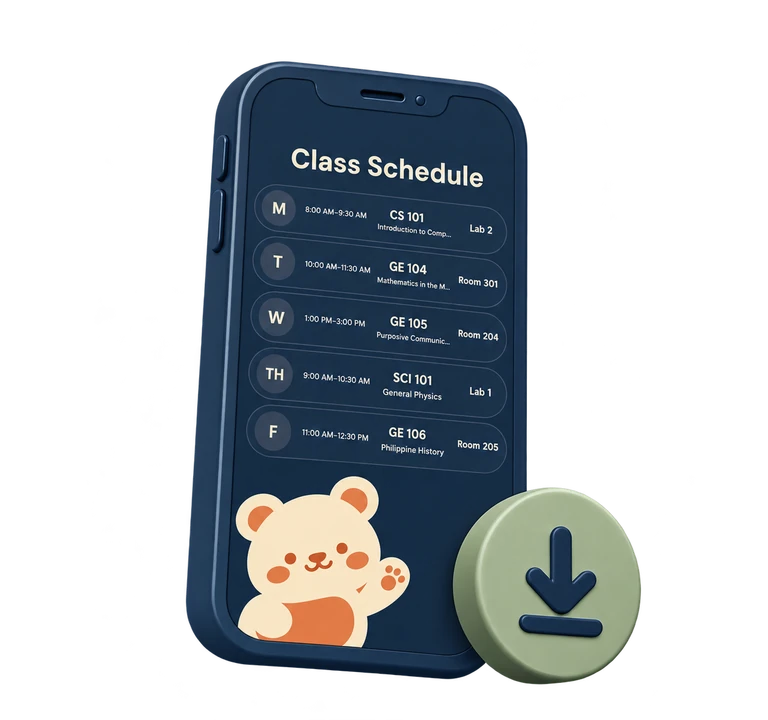
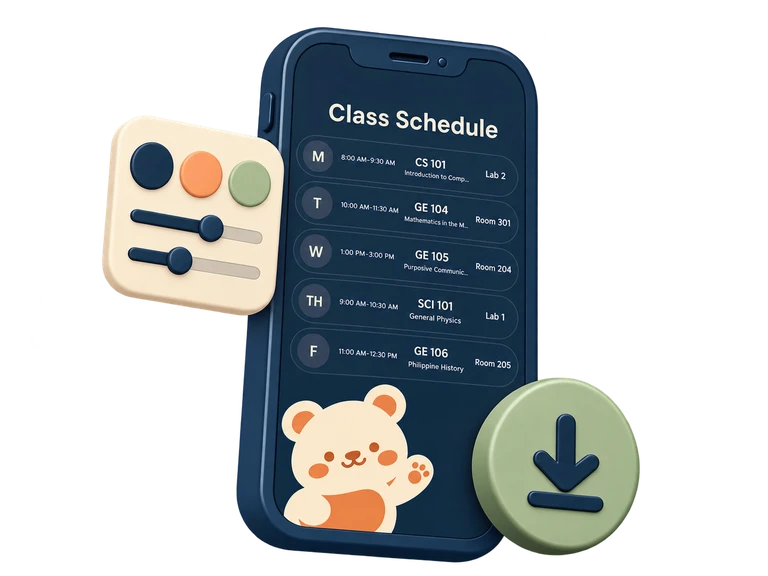
Update landing step 3 to customize and download

Changed region(s): [[0.125, 0.0312, 0.8438, 1.0]]

diff --git a/src/components/HowItWorks.jsx b/src/components/HowItWorks.jsx
@@ -12,10 +12,10 @@ const steps = [
     height: 512,
   },
   {
-    title: 'Download wallpaper',
-    description: 'Download your PNG and set it as your lock screen. Your week, always in view.',
+    title: 'Customize and download',
+    description: 'Adjust the colors and layout, then download your PNG and set it as your lock screen.',
     image: '/images/how-it-works/download-wallpaper.webp',
-    height: 720,
+    height: 576,
   },
 ];
 

diff --git a/documentation/LANDING_PAGE.md b/documentation/LANDING_PAGE.md
@@ -22,7 +22,7 @@ A full-width warm cream, three-column row directly below the hero shows **Total 
 
 ## How it works
 
-A white section immediately before **Find your style.** fades in from the cream statistics with a 24–40px masked blur, matching the hero-to-statistics treatment. It explains the three-step journey: **Choose a design**, **Add your classes**, and **Download wallpaper**. Three open illustrated columns become a centered vertical list at 640px and below. The ordered list keeps the sequence accessible; illustrations are decorative because adjacent text explains each step. Images use lazy loading, reserved dimensions, and transparent WebP exports totaling approximately 117 KB. The assets live in `public/images/how-it-works/`; exact built-in imagegen prompts and source paths are recorded in [HOW_IT_WORKS_ASSETS.json](HOW_IT_WORKS_ASSETS.json).
+A white section immediately before **Find your style.** fades in from the cream statistics with a 24–40px masked blur, matching the hero-to-statistics treatment. It explains the three-step journey: **Choose a design**, **Add your classes**, and **Customize and download**. Three open illustrated columns become a centered vertical list at 640px and below. The ordered list keeps the sequence accessible; illustrations are decorative because adjacent text explains each step. Images use lazy loading, reserved dimensions, and transparent WebP exports with alpha retained. The assets live in `public/images/how-it-works/`; exact built-in imagegen prompts and source paths are recorded in [HOW_IT_WORKS_ASSETS.json](HOW_IT_WORKS_ASSETS.json).
 
 ## Device showcases
 
